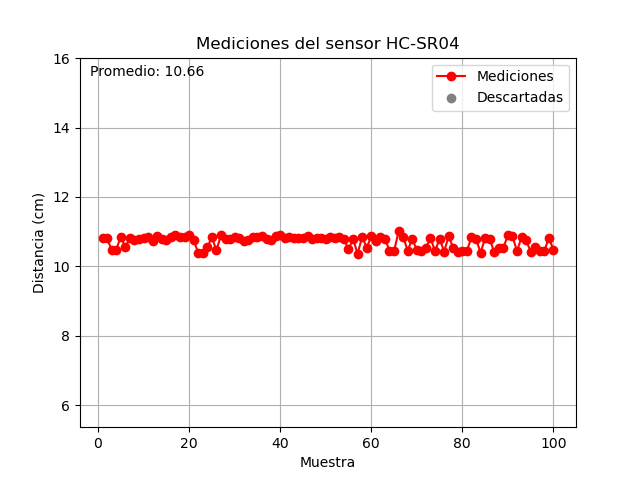
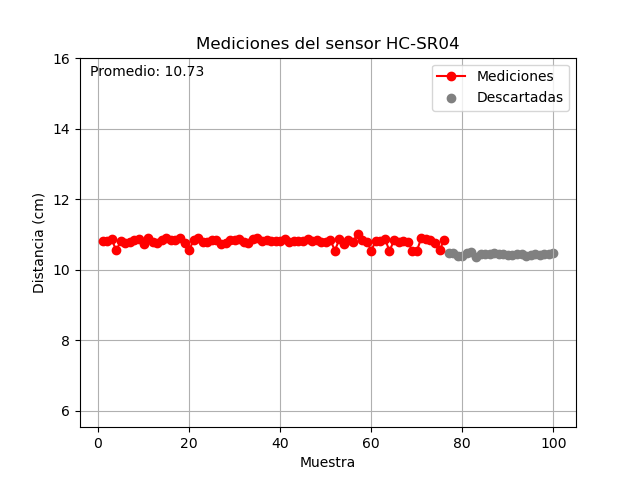
corrigo factor de correccion

diff --git a/proyecto/sensores_aux/sensor_ultrasonido_resultados_2.py b/proyecto/sensores_aux/sensor_ultrasonido_resultados_2.py
@@ -26,7 +26,7 @@ for archivo_mediciones in archivos_mediciones:
     mediana = np.median(distancias)
     diff = np.abs(distancias - mediana)
     mediana_absoluta = np.median(diff)
-    factor = 10  # Ajusta el factor según sea necesario
+    factor = 5  # Ajusta el factor según sea necesario
     umbral = factor * mediana_absoluta
     distancias_filtradas = [
         d for d in distancias if np.abs(d - mediana) <= umbral]
